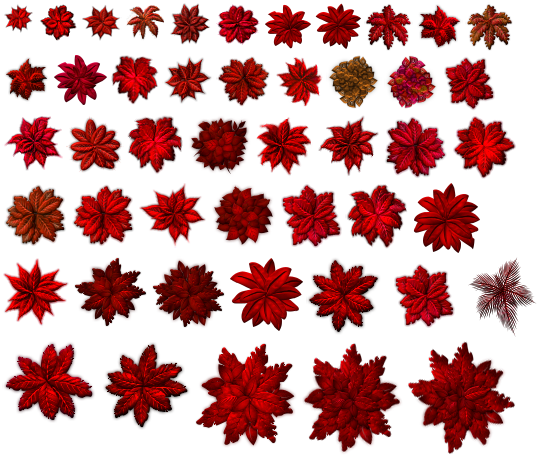
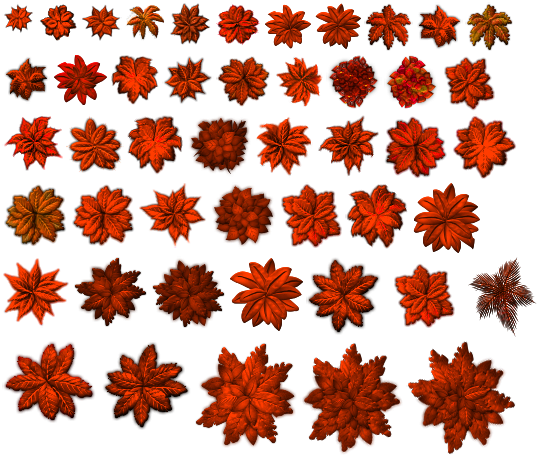
Adjusted colors in collision to vision and showed more information when clicked on thing

diff --git a/alife/graphics.py b/alife/graphics.py
@@ -9,14 +9,20 @@ COLOR_RED  = (255, 0, 0)
 COLOR_BLACK  = (0, 0, 0)
 
 # RGB intensities given a sprite ID
-id2rgb = array([
-    [0.,0.,0.], # VOID     = 0  = BLACK
-    [1.,1.,1.], # ROCK     = 1  = WHITE
-    [0.,0.,0.], # MISC     = 2  = BLACK
-    [0.,1.,0.], # PLANT    = 3  = GREEN
-    [0.,0.,1.], # ANIMAL   = 4  = BLUE
-    [1.,0.,0.], # ENEMY    = 5  = RED
-    ])
+
+id2rgb = {
+    0: array([0.,0.,0.]), # VOID     = 0  = BLACK
+    1: array([1.,1.,1.]), # ROCK     = 1  = WHITE
+    2: array([0.,0.,0.]), # MISC     = 2  = BLACK
+    3: array([0.,1.,0.]), # PLANT    = 3  = GREEN
+    31: array([1, 0.356, 0.121]), # PLANT    = 31  = ORANGE
+    32: array([0.650, 0.062, 0.996]), # PLANT    = 32  = PURPLE
+    33: array([0, 0.901, 0.694]), # PLANT    = 33  = TURQUOISE
+    4: array([0.,0.,1.]), # ANIMAL   = 4  = BLUE
+    5: array([1.,0.,0.]), # ENEMY    = 5  = RED
+    9: array([0.929, 0.129, 0.149]), # MONSTER    = 5  = DARK RED
+
+}
 
 def rgb2color(a, default=COLOR_BLACK):
     ''' 
@@ -218,7 +224,7 @@ def draw_banner(surface, s):
     #print(lines)
     myfont = pygame.font.SysFont("monospace", 17)
     l,h = myfont.size('--------------------')
-    pygame.draw.rect(surface, COLOR_BLACK, (1,1,1+l,1+h*len(lines)))
+    pygame.draw.rect(surface, COLOR_BLACK, (1,1,600+l,1+h*len(lines)))
     j = 0
     color = COLOR_RED
     for line in lines:

diff --git a/alife/world.py b/alife/world.py
@@ -327,6 +327,7 @@ class World:
                 elif event.type == pygame.MOUSEBUTTONDOWN:
                     print("Click")
                     sel_obj = self.quick_collision(pygame.mouse.get_pos())
+                    print(sel_obj)
             
             if timer != 0:
                 timer += dt
@@ -610,7 +611,7 @@ def object2rgb(ID_self, ID_other):
         If an object of ID_self is in vision range of an object ID,other, what
         does it see?
     '''
-    if ID_self is None or ID_other < ID_ANIMAL:
+    if ID_self is None or int(str(ID_other)[:1]) == ID_PLANT or ID_other == ID_ROCK:
         # A plant and a rock always looks the same
         return id2rgb[ID_other]
     elif ID_self == ID_other:

diff --git a/alife/objects.py b/alife/objects.py
@@ -204,7 +204,7 @@ class Creature(Thing):
             self.brain = dna.copy()
 
     def __str__(self):
-        return str(self.brain)
+        return str(self.brain) + "\n" + str(self.observation)
 
     def move(self):
         ''' Move '''
